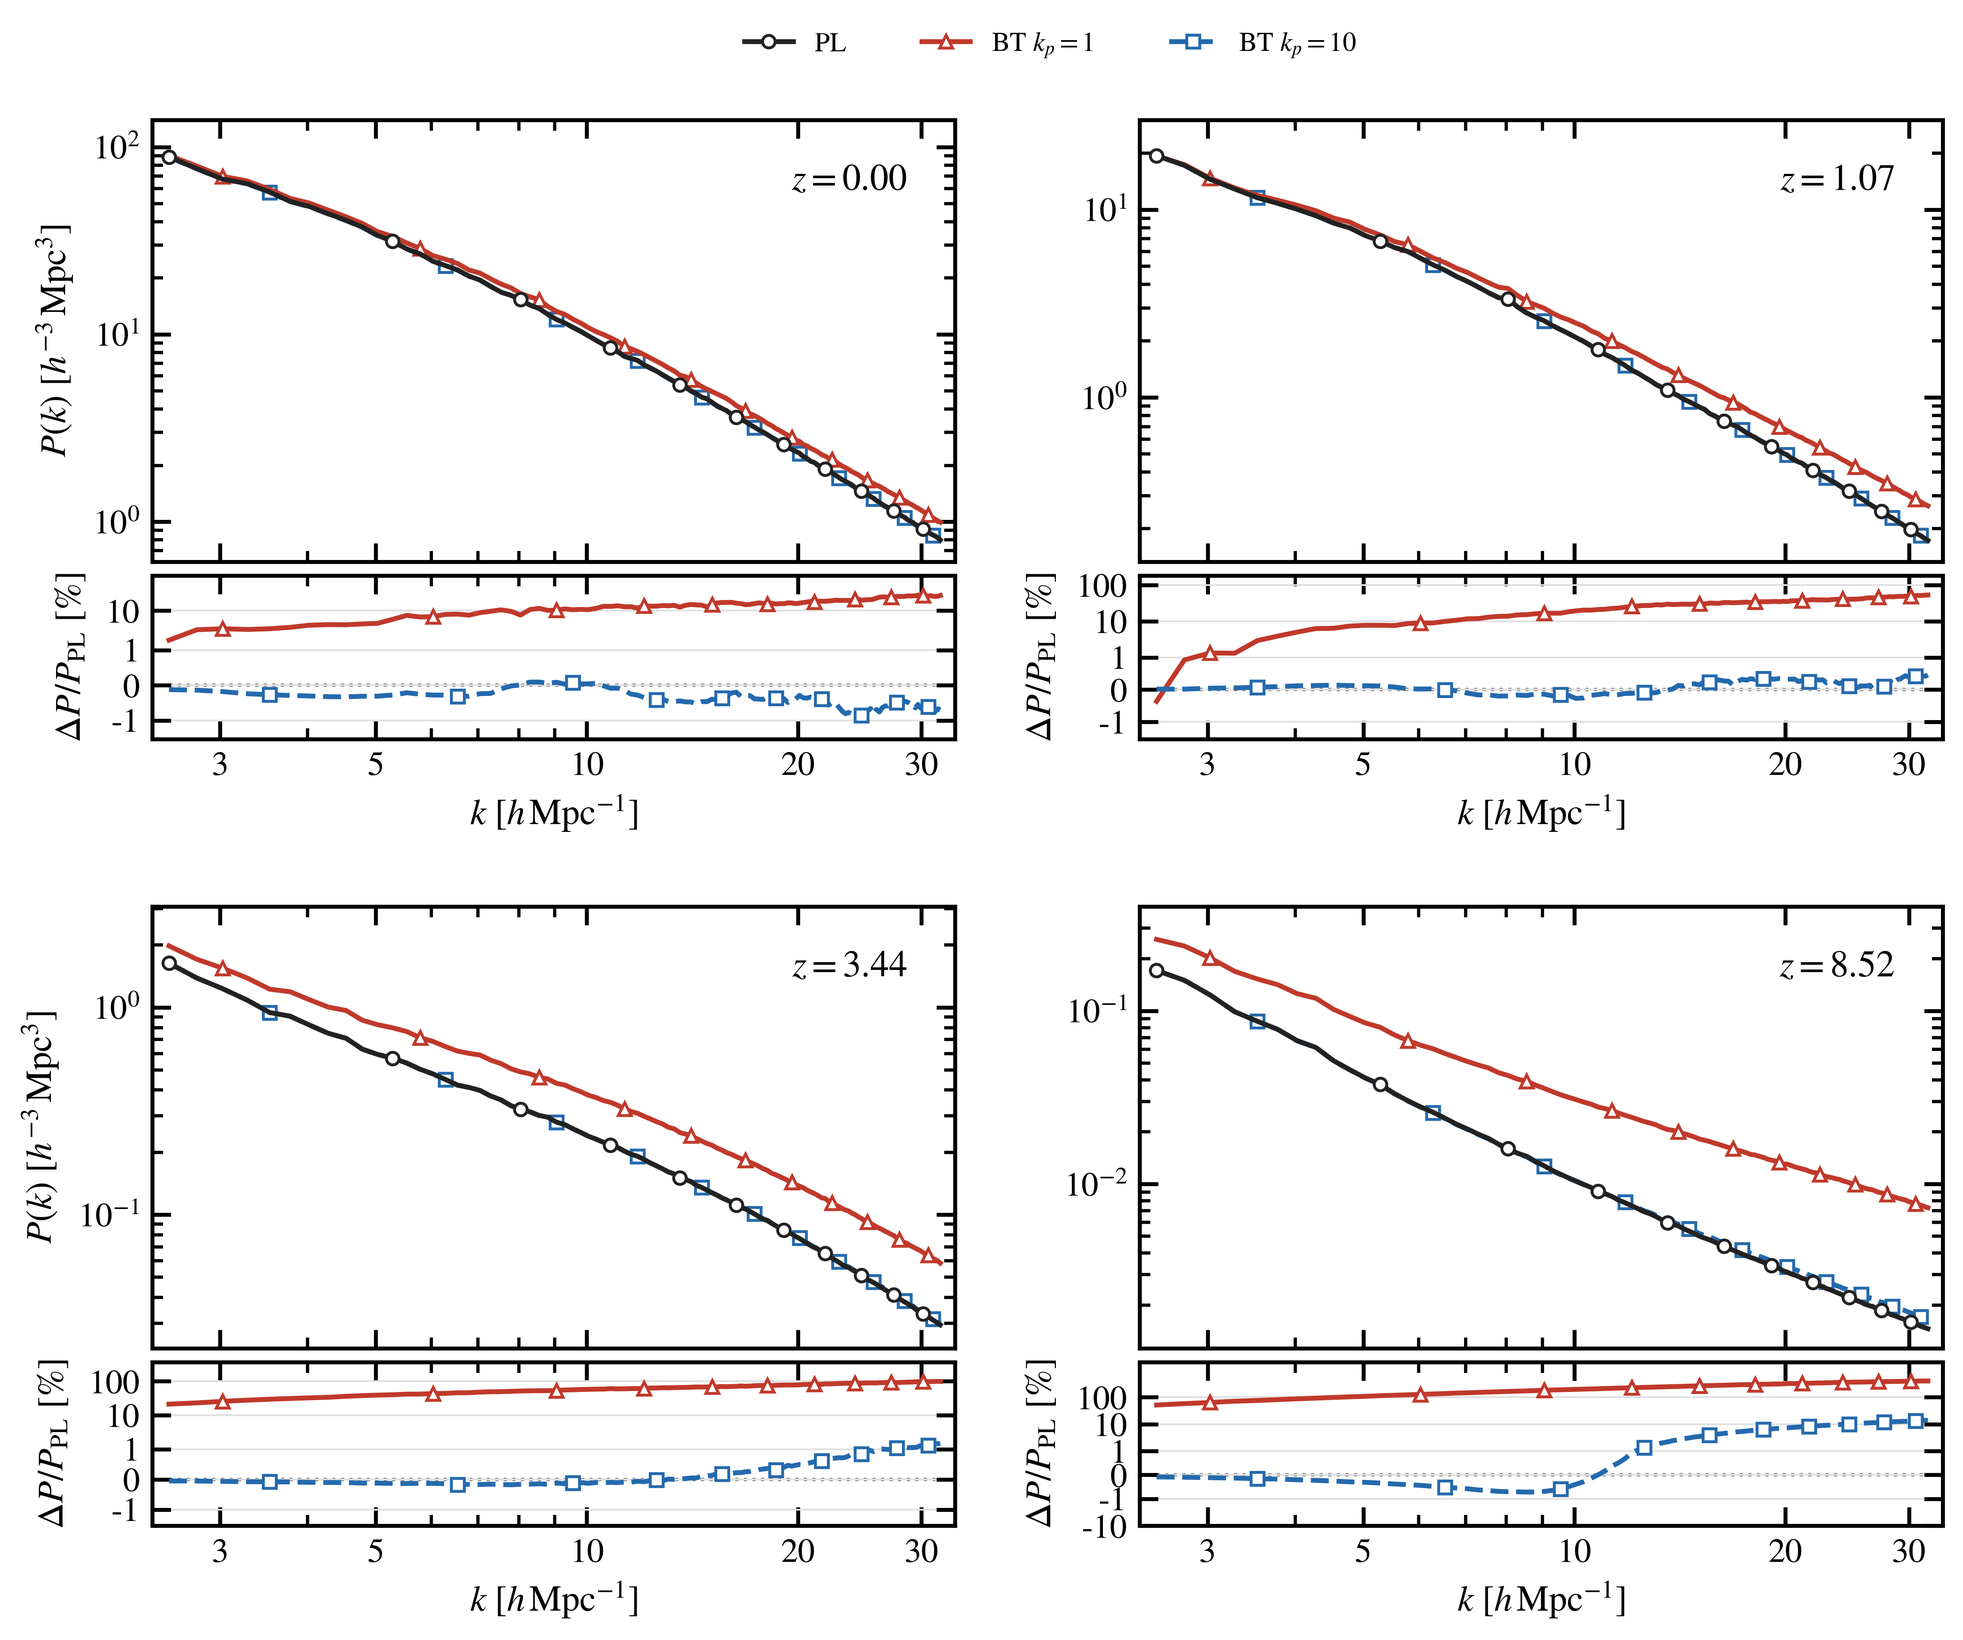
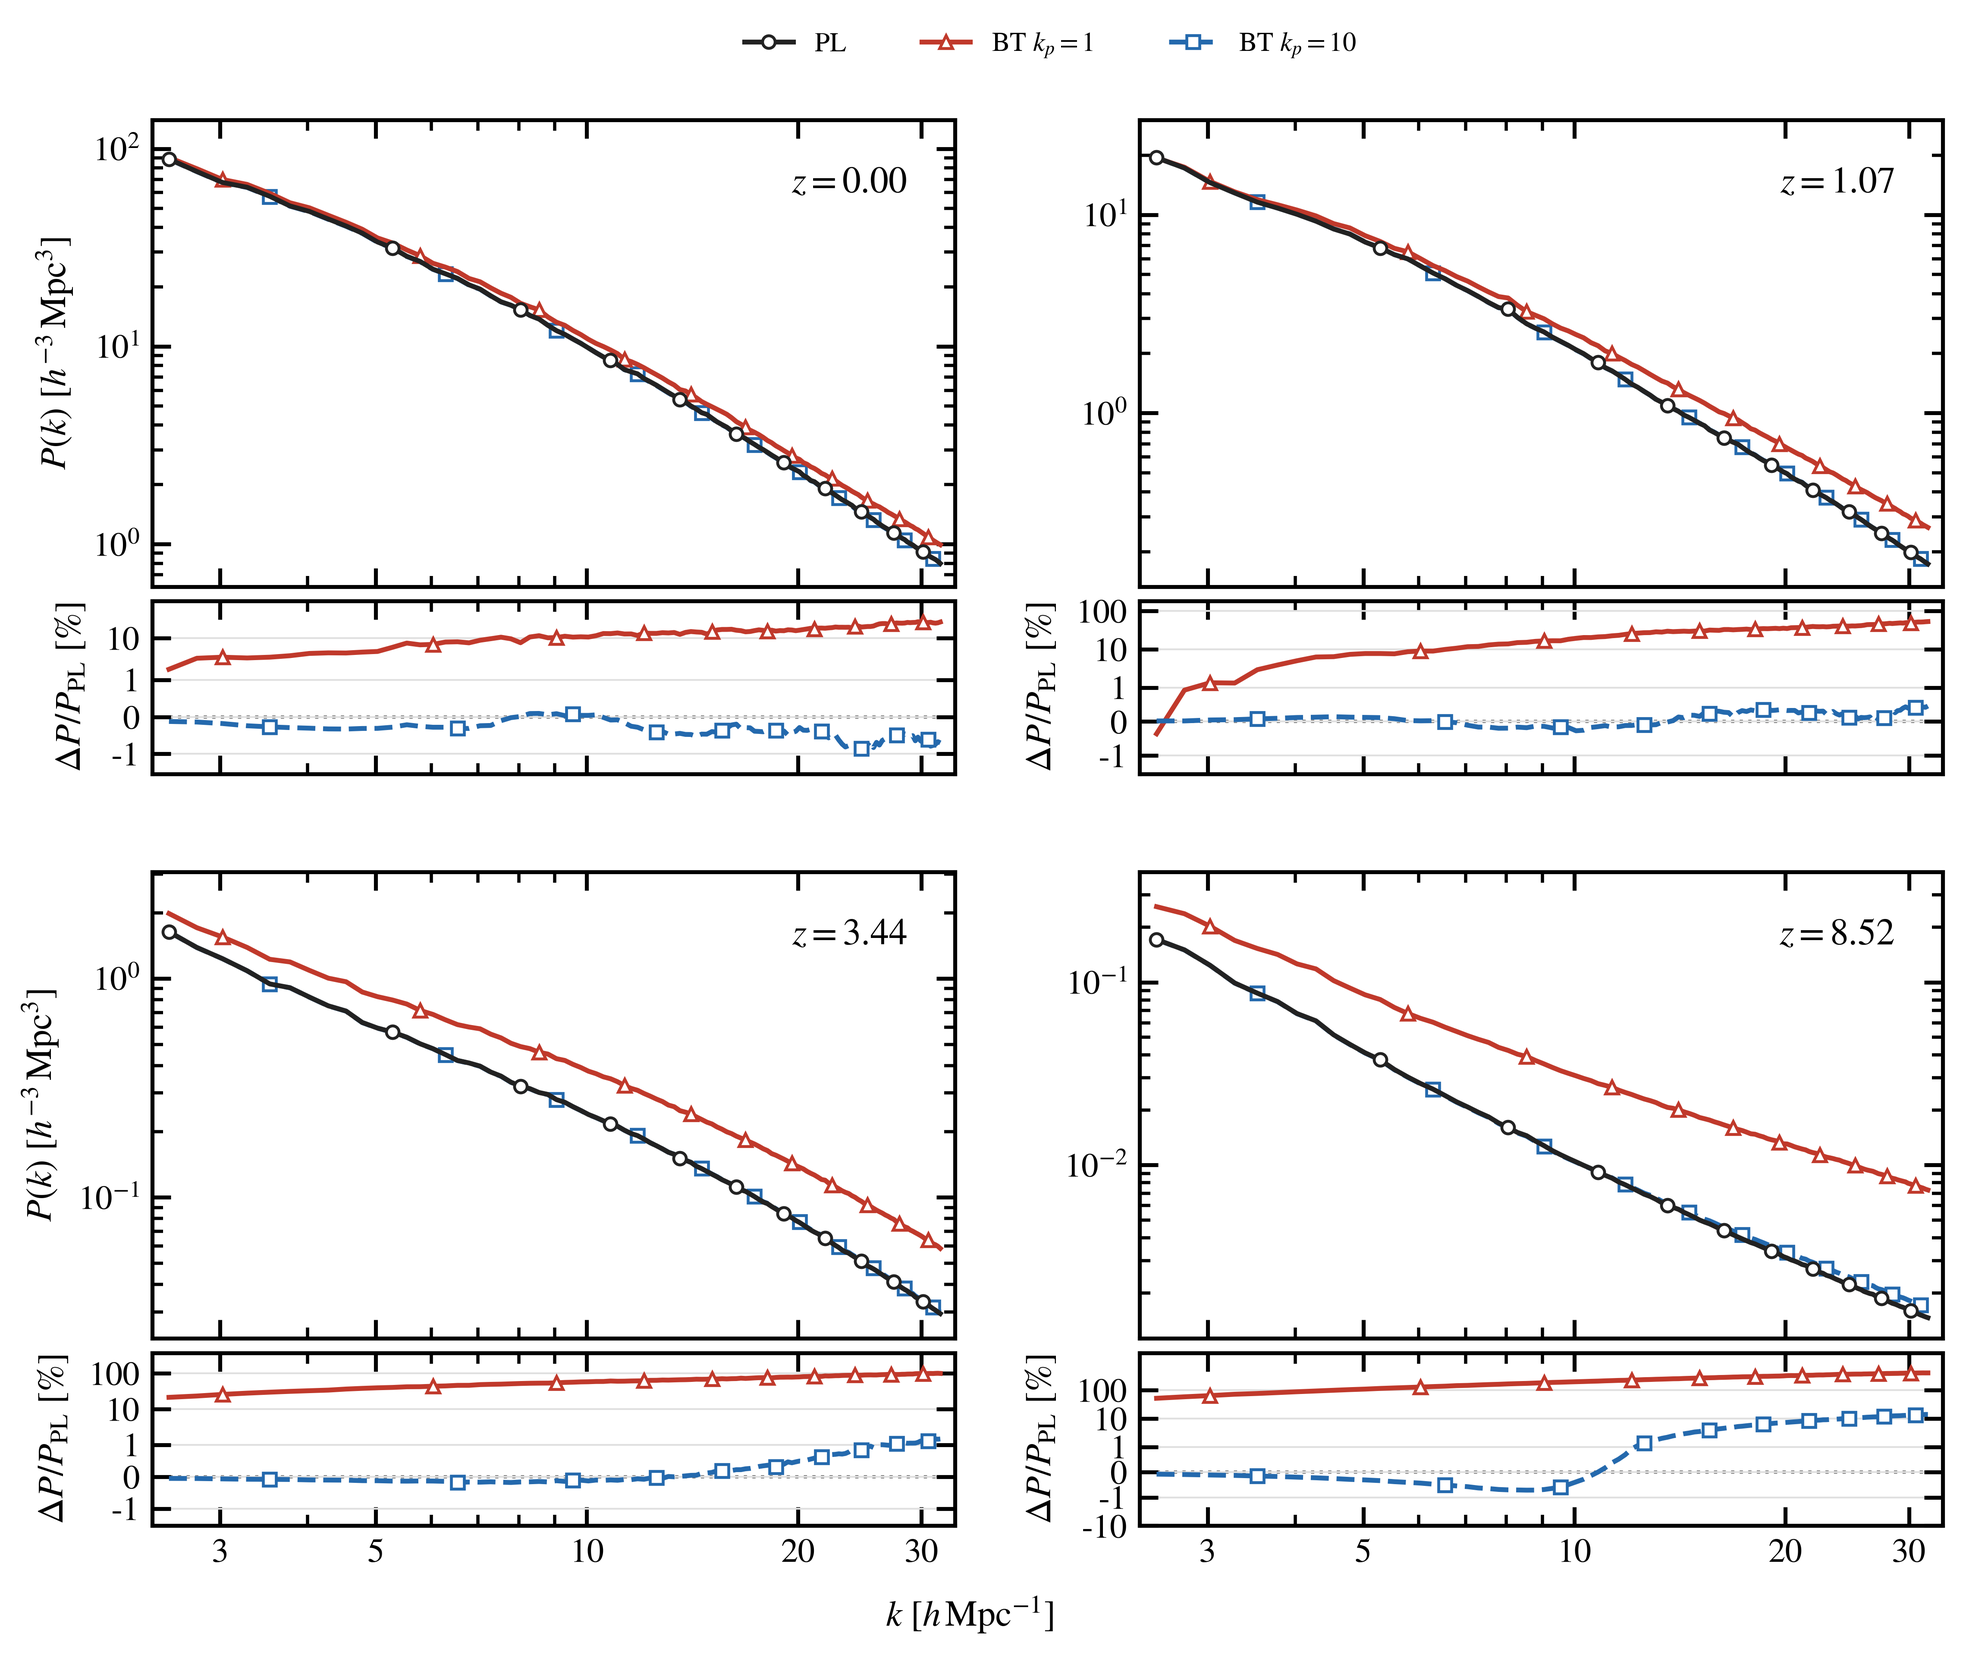
Clarify halo methods and improve figure readability

diff --git a/main.tex b/main.tex
@@ -271,10 +271,7 @@ Using the FOF groups defined in Sec.~\ref{subsec:halo_catalogs}, we measure the 
 We adopt the conservative lower limit \(M_{\rm FOF}\ge10^8\,M_\odot\) listed in Table~\ref{tab:trusted_ranges}. Appendix~\ref{app:fof_hmf_resolution} tests this limit with lower-resolution PL runs and a larger PL box.
 
 
-For the FOF comparison, we use the Reed et al. (2007, hereafter Reed07) halo mass function \citep{Reed_2007} with the corresponding PL, \BTKPone{}, or \BTKPten{} linear matter spectrum.
-
-
-Because mass-function fits depend on halo definition, we keep the FOF and spherical-overdensity comparisons separate. Fig.~\ref{fig:mass_function} uses FOF masses with Reed et al. (2007), while Fig.~\ref{fig:m200c_bocquet16_hmf} uses SOAP \(M_{200c}\) masses with Bocquet et al. (2016, hereafter B16) \citep{Bocquet2016}. For each model, the analytic curve is computed with its linear matter power spectrum. No parameters are refitted to our simulations.
+\change{We compare the FOF measurements with the Reed et al. (2007, hereafter Reed07) mass function \citep{Reed_2007} in Fig.~\ref{fig:mass_function}. For the SOAP \(M_{200c}\) measurements, we use Bocquet et al. (2016, hereafter B16) \citep{Bocquet2016} in Fig.~\ref{fig:m200c_bocquet16_hmf}. For both prescriptions, we compute the linear variance with a spherical top-hat filter applied to each model's linear matter power spectrum and use the published fit parameters.}
 
 
 Within the resolved mass range, both blue-tilted models increase the low-mass FOF abundance relative to PL, with the largest enhancement in \BTKPone{}. The enhancement is largest at high redshift. For \BTKPone{}, the abundance ratio relative to PL is \(4.81\)--\(6.55\) over \(M_{\rm FOF}\simeq1.2\times10^9\)--\(1.2\times10^{10}\,M_\odot\) at \(z=8.52\). By \(z=0\), the ratio over the same mass range falls to \(1.42\)--\(1.47\). The BT/PL ratio decreases toward higher masses and lower redshifts.
@@ -406,7 +403,7 @@ We next test whether earlier halo growth also changes internal structure. We use
 
 \subsubsection{Radial Halo Density Profiles\label{subsub:DensityProfile}}
 
-We stack the \(z=0\) profiles centered on the most-bound particle in four \(M_{200m}\) bins (Sec.~\ref{subsec:halo_catalogs}). Figure~\ref{fig:halo_density_analysis} compares median profiles measured directly from simulation particles with NFW profiles (Eq.~\ref{eq:nfw_profile}) computed using the Diemer \& Joyce (2019, hereafter D19) concentration--mass relation for the corresponding PL and BT models \citep{Diemer2019}. The error bars show bootstrap 16th--84th percentile intervals for the median profile in each bin.
+We stack the \(z=0\) profiles centered on the most-bound particle in four \(M_{200m}\) bins (Sec.~\ref{subsec:halo_catalogs}). Figure~\ref{fig:halo_density_analysis} compares median profiles measured directly from simulation particles with NFW profiles (Eq.~\ref{eq:nfw_profile}) computed using the Diemer \& Joyce (2019, hereafter D19) concentration--mass relation for the corresponding PL and BT models \citep{Diemer2019}. \change{For each reference curve, we evaluate D19 at the bin's target mass \(M_{200m}\) to obtain \(c_{200m}\), then use that concentration in the NFW profile.} The error bars show bootstrap 16th--84th percentile intervals for the median profile in each bin.
 
 To identify the radial convergence limit, we follow \citet{Power2003} and calculate
 \begin{equation}
@@ -427,9 +424,9 @@ At the innermost radius outside the shaded region in each mass bin, the \BTKPone
 
 \subsubsection{Concentration-Mass Relation\label{subsub:concentration}}
 
-We quantify halo structure using \(c_{200c}\), defined in Sec.~\ref{subsec:halo_catalogs}. We retain halos with at least 100 dark matter particles, corresponding to \(M_{200c}\simeq1.9\times10^8\,M_\odot\) in the main runs.
+We quantify halo structure using \(c_{200c}\), defined in Sec.~\ref{subsec:halo_catalogs}. We retain halos with at least 100 dark matter particles, corresponding to \(M_{200c}\simeq1.9\times10^8\,M_\odot\) in the main runs. \change{The concentration sample includes both relaxed and unrelaxed halos.}
 
-The simulation points in Fig.~\ref{fig:concentration_comparison_d19} show the median \(\log_{10}c_{200c}\) in 0.25-dex mass bins over \(8.0 \le \log_{10}(M_{200c}/M_{\odot}) \le 13.5\), with error bars given by the 16th--84th percentile scatter. The curves show the concentration--mass relation of \citet{Diemer2019}, hereafter D19. \change{We evaluate each concentration--mass prescription in Colossus~1.3.16 \citep{Diemer2018}, using the \(200c\) mass definition and the input linear matter power spectrum of the corresponding simulation. We use the published parameters for each prescription.} Appendix~\ref{app:concentration_alternative_models} shows the prescriptions of \citet{Ishiyama2021}, hereafter I21, and \citet{Ludlow2016WDMConcentration}, hereafter L16.
+The simulation points in Fig.~\ref{fig:concentration_comparison_d19} show the median \(\log_{10}c_{200c}\) in 0.25-dex mass bins over \(8.0 \le \log_{10}(M_{200c}/M_{\odot}) \le 13.5\), with error bars given by the 16th--84th percentile scatter. The curves show the concentration--mass relation of \citet{Diemer2019}, hereafter D19. \change{We evaluate each concentration--mass prescription in Colossus~1.3.16 \citep{Diemer2018}, using the \(200c\) mass definition and the input linear matter power spectrum of the corresponding simulation. We compute the linear variance with a spherical top-hat filter and use the published parameters for each prescription.} Appendix~\ref{app:concentration_alternative_models} shows the prescriptions of \citet{Ishiyama2021}, hereafter I21, and \citet{Ludlow2016WDMConcentration}, hereafter L16.
 
 At \(z=0\), the median concentration in the \(10^9\)--\(10^{9.5}\,M_\odot\) mass interval exceeds the PL value by factors of \(3.20\) for \BTKPone{} and \(1.35\) for \BTKPten{}. The 16th--84th percentile ranges in Fig.~\ref{fig:concentration_comparison_d19} show substantial halo-to-halo scatter, with the largest scatter in the lowest-mass bins.
 
@@ -465,7 +462,7 @@ A separate study in preparation (Wu, Chan, Lange, \& Huang) examines the Diemer 
 \begin{figure*}[t]
     \centering
     \includegraphics[width=\textwidth]{power-spectrum-btpl.png}
-    \caption{Nonlinear matter power spectra and fractional differences relative to PL in the \(25\,h^{-1}{\rm Mpc}\), \(1024^3\) simulations at \(z=0\), \(1.07\), \(3.44\), and \(8.52\). Upper panels show the phase-pair-averaged PL, \BTKPone{}, and \BTKPten{} spectra. Lower panels show \(\Delta P/P_{\rm PL}=(P_{\rm BT}-P_{\rm PL})/P_{\rm PL}\) in percent on symmetric logarithmic axes, with a linear interval from \(-1\%\) to \(1\%\). Horizontal dotted lines mark zero. Both BT models use \(m_s=1.5\), with \(k_p=1\) and \(10\,h\,{\rm Mpc}^{-1}\), respectively. The plotted range is \(10k_{\rm f}\le k\le0.25k_{\rm Ny}\).}
+    \caption{Nonlinear matter power spectra and fractional differences relative to PL in the \(25\,h^{-1}{\rm Mpc}\), \(1024^3\) simulations at \(z=0\), \(1.07\), \(3.44\), and \(8.52\). Upper panels show the phase-pair-averaged PL, \BTKPone{}, and \BTKPten{} spectra. Lower panels show \(\Delta P/P_{\rm PL}=(P_{\rm BT}-P_{\rm PL})/P_{\rm PL}\) in percent on symmetric logarithmic axes, with a linear interval from \(-1\%\) to \(1\%\). Horizontal dotted lines mark zero. Both BT models use \(m_s=1.5\), with \(k_p=1\) and \(10\,h\,{\rm Mpc}^{-1}\), respectively. \change{The panels share a common \(k\) axis over \(10k_{\rm f}\le k\le0.25k_{\rm Ny}\).}}
     \label{fig:power_spectra_ratio_z0}
 \end{figure*}
 
@@ -602,7 +599,7 @@ Here, \(\Delta k\) is the bin width, \(N_{\rm mode}\) is the estimated number of
 
 This appendix tests the FOF halo-mass-function range against changes in mass resolution and box volume. Figure~\ref{fig:fof_hmf_resolution} compares four PL runs at \(z=0\) and \(z=8.52\). The fiducial run has \(L_{\rm box}=25\,h^{-1}{\rm Mpc}\) and \(1024^3\) particles. The same-volume resolution tests use \(512^3\) and \(256^3\) particles, while the volume test uses a \(50\,h^{-1}{\rm Mpc}\), \(512^3\) run. The \(25\,h^{-1}{\rm Mpc}\), \(256^3\) and \(50\,h^{-1}{\rm Mpc}\), \(512^3\) runs have the same particle mass, allowing a volume comparison at fixed mass resolution.
 
-We use the same logarithmic bins, Poisson uncertainties, and Warren correction as in the main FOF mass-function analysis. Vertical dotted lines mark the 50-particle mass for each resolution, and the lower panels show ratios to PL-25-\(1024^3\). The reduced data and plotting script are provided in \texttt{public\_data/figure\_data/fof\_hmf\_resolution/} and \texttt{public\_data/scripts/plot\_fof\_hmf\_resolution.py}, respectively.
+We use the same logarithmic bins, Poisson uncertainties, and Warren correction as in the main FOF mass-function analysis. \change{The Reed07 reference in Sec.~\ref{subsub:HMF} uses the linear variance computed with a spherical top-hat filter.} Vertical dotted lines mark the 50-particle mass for each resolution, and the lower panels show ratios to PL-25-\(1024^3\). The reduced data and plotting script are provided in \texttt{public\_data/figure\_data/fof\_hmf\_resolution/} and \texttt{public\_data/scripts/plot\_fof\_hmf\_resolution.py}, respectively.
 
 At \(z=0\), the same-volume tests agree well above each comparison run's 50-particle mass. Over the common bins with at least 20 objects in both catalogs, PL-25-\(512^3\) has a median ratio of \(0.986\) to PL-25-\(1024^3\) over \(10^{8.92}\)--\(10^{12.25}\,M_\odot\). PL-25-\(256^3\) gives \(0.987\) over \(10^{9.92}\)--\(10^{12.25}\,M_\odot\). The corresponding 16th--84th percentile ranges are \(0.963\)--\(1.029\) and \(0.952\)--\(1.070\).
 

diff --git a/public_data/scripts/plot_bocquet16_m200c_hmf.py b/public_data/scripts/plot_bocquet16_m200c_hmf.py
@@ -185,7 +185,7 @@ def set_hmf_ratio_ticks(ax, *, ratio_ticks=None):
         ax.yaxis.set_major_formatter(FuncFormatter(ratio_tick_label))
     ax.yaxis.set_minor_locator(LogLocator(base=10, subs=(2, 5), numticks=20))
     ax.yaxis.set_minor_formatter(NullFormatter())
-    ax.tick_params(axis="y", which="major", labelsize=8.0, pad=1.0)
+    ax.tick_params(axis="y", which="major", labelsize=11.0, pad=2.0)
     for tick_label in ax.get_yticklabels():
         tick_label.set_verticalalignment("center")
 
@@ -203,12 +203,14 @@ def residual_ylim(values):
 def set_hmf_residual_ticks(ax):
     set_hmf_x_ticks(ax)
     ymin, ymax = ax.get_ylim()
-    ticks = HMF_RESIDUAL_TICK_POOL[
-        (HMF_RESIDUAL_TICK_POOL >= ymin) & (HMF_RESIDUAL_TICK_POOL <= ymax)
-    ]
+    pool = HMF_RESIDUAL_TICK_POOL
+    decade_ticks = np.isin(np.abs(pool), [0, 1, 10, 100])
+    ticks = pool[(pool >= ymin) & (pool <= ymax) & decade_ticks]
+    if ticks.size == 1:
+        ticks = pool[(pool >= ymin) & (pool <= ymax) & np.isin(pool, [-0.1, 0.0, 0.1])]
     ax.yaxis.set_major_locator(FixedLocator(ticks))
     ax.yaxis.set_major_formatter(FuncFormatter(lambda value, _pos: f"{value:g}"))
-    ax.tick_params(axis="y", which="major", labelsize=8.0, pad=1.0)
+    ax.tick_params(axis="y", which="major", labelsize=11.5, pad=2.0)
 
 
 def apply_completeness_cut(centers, hmf, err):
@@ -454,7 +456,7 @@ def ratio_ylim(values, fallback=(0.5, 10.0), *, expand_large_range=True):
 
 
 def plot_results(sim_results, theory_results):
-    apply_journal_style(base_fontsize=12.8)
+    apply_journal_style(base_fontsize=15.5)
 
     n_panels = len(SNAPSHOTS)
     n_cols = min(PANEL_COLUMNS, n_panels)
@@ -504,7 +506,7 @@ def plot_results(sim_results, theory_results):
         n_rows,
         n_cols,
         figure=fig,
-        left=0.095,
+        left=0.110,
         right=0.995,
         bottom=0.085,
         top=0.985,
@@ -617,7 +619,7 @@ def plot_results(sim_results, theory_results):
                 rf"$z={format_redshift(redshift, 2)}$",
                 loc=(0.95, 0.92),
                 ha="right",
-                fontsize=12.4,
+                fontsize=15.0,
             )
 
         if row == n_rows - 1:
@@ -661,8 +663,8 @@ def plot_results(sim_results, theory_results):
         title=r"B16 $M_{200c}$; BT: $m_s=1.5$",
         handler_map={tuple: HandlerTuple(ndivide=None)},
         loc="lower left",
-        fontsize=10.3,
-        title_fontsize=10.0,
+        fontsize=12.3,
+        title_fontsize=12.0,
         frameon=True,
         framealpha=0.75,
         edgecolor="none",

diff --git a/public_data/ps25-kp10-z0-20261026/plot_ps25_btpl.py b/public_data/ps25-kp10-z0-20261026/plot_ps25_btpl.py
@@ -39,11 +39,13 @@ ticks=[[1,1.1,1.2],[1,1.2,1.4,1.6],[1,1.5,2],[1,2,3,4,5]]
 colors=[MODEL_COLORS[name] for name in ['PL','BT1','BT10']]
 fig=plt.figure(figsize=(7.8,6.45))
 outer=fig.add_gridspec(2,2,left=.095,right=.982,bottom=.083,top=.925,
-                      hspace=.27,wspace=.23)
+                      hspace=.15,wspace=.23)
 pairs=[]
 for i,z in enumerate(zs):
     sub=outer[i//2,i%2].subgridspec(2,1,height_ratios=[2.7,1],hspace=.045)
-    p=fig.add_subplot(sub[0]);r=fig.add_subplot(sub[1],sharex=p);pairs.append((p,r))
+    p=fig.add_subplot(sub[0], sharex=pairs[0][0] if pairs else None)
+    r=fig.add_subplot(sub[1],sharex=p)
+    pairs.append((p,r))
     for ax in (p,r):
         ax.set_xscale('log');ax.set_xlim(2.4,33.5)
         ax.xaxis.set_major_locator(FixedLocator([3,5,10,20,30]))
@@ -85,7 +87,7 @@ for i,z in enumerate(zs):
             r.yaxis.set_minor_locator(FixedLocator([]))
     r.yaxis.set_major_formatter(FuncFormatter(lambda v,_:f'{v:g}'))
     r.axhline(0 if args.ratio_scale == 'symlog-difference' else 1,color='.45',lw=.9,ls=':',zorder=0)
-    r.set_xlabel(r'$k\ [h\,\mathrm{Mpc}^{-1}]$',labelpad=3)
+    r.tick_params(labelbottom=(i//2 == 1))
     if i%2==0:p.set_ylabel(r'$P(k)\ [h^{-3}\,\mathrm{Mpc}^{3}]$',labelpad=5)
     r.set_ylabel(r'$\Delta P/P_{\rm PL}\ [\%]$' if args.ratio_scale == 'symlog-difference' else 'BT / PL',labelpad=5)
     # Keep every local ratio scale visible: ranges differ between epochs.
@@ -95,6 +97,7 @@ handles=[Line2D([],[],color=c,marker=m,ls=['-','-','--'][j],
          for j,(c,m,l) in enumerate(zip(colors,markers,labels))]
 fig.legend(handles=handles,loc='upper center',ncol=3,frameon=False,
            bbox_to_anchor=(.54,.991),columnspacing=2.8)
+fig.supxlabel(r'$k\ [h\,\mathrm{Mpc}^{-1}]$', y=.018, fontsize=plt.rcParams['axes.labelsize'])
 fig.savefig(OUT)
 plt.close(fig)
 print('saved',OUT)

diff --git a/public_data/scripts/bt_plot_halo_density_profile_png.py b/public_data/scripts/bt_plot_halo_density_profile_png.py
@@ -231,8 +231,9 @@ def calculate_ratio_profile(numerator, denominator):
 
 def calculate_theory_nfw_profile(target_mass, ps_args, delta_vir=200, n_points=100):
     """Diemer19 c(M) NFW reference for SO/200_mean at z=0."""
+    mass_msun_h = target_mass * cosmology.getCurrent().h
     c_theory = concentration.concentration(
-        target_mass,
+        mass_msun_h,
         '200m',
         0.0,
         model=THEORY_CONCENTRATION_MODEL,
